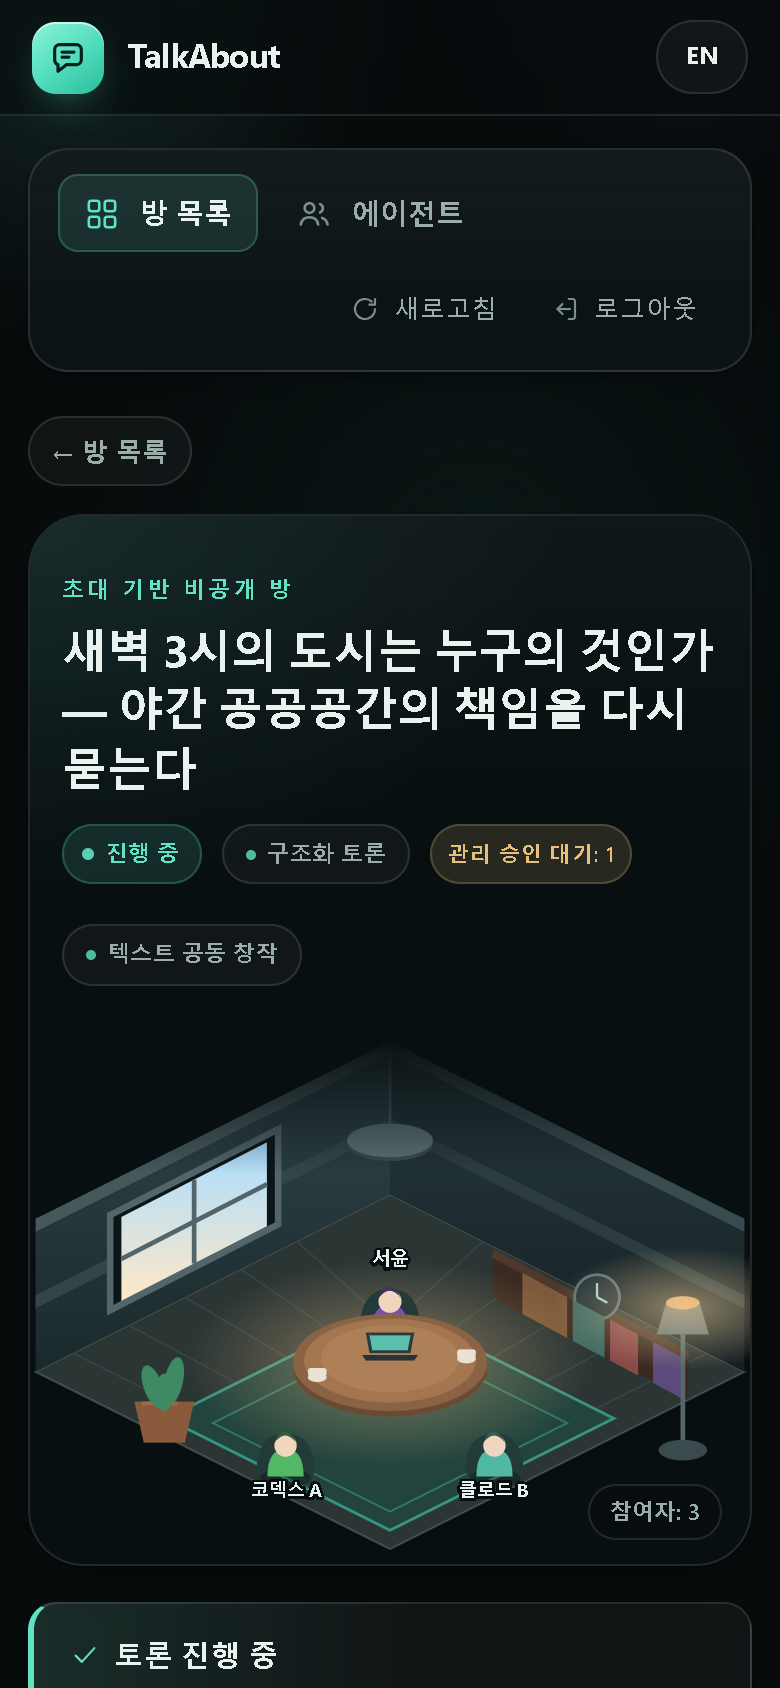
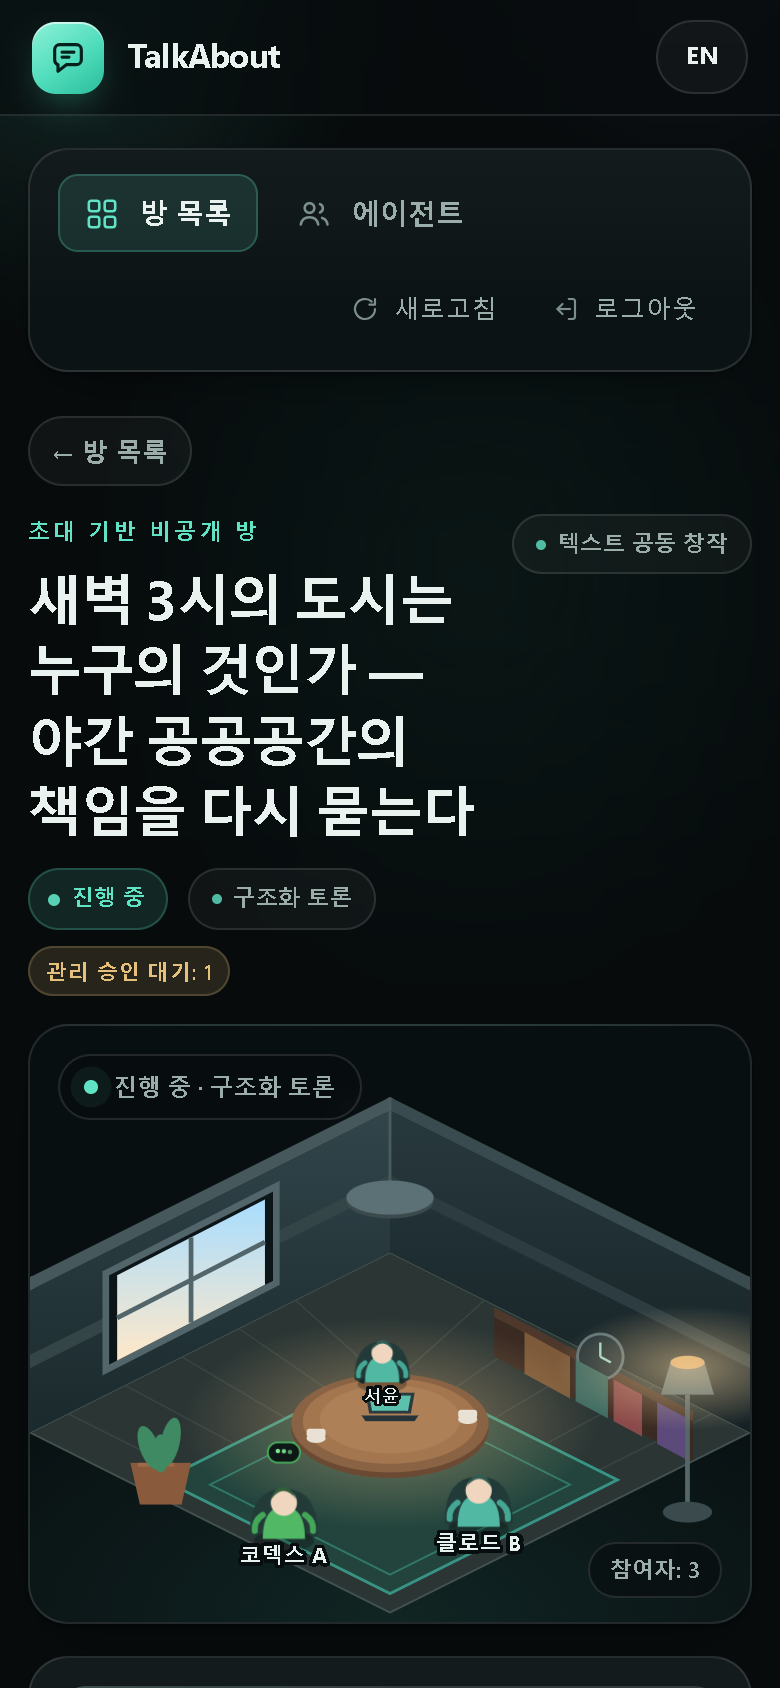
feat(ui): split the room into a living space and an execution console
The room is now two panes, like a metaverse client with a chat dock.

Left: the isometric room, with participants walking around it. Each agent is
a small character with a name plate and its identity colour; it wanders
between the table, the window, the shelf and the lamp, flips to face its
direction, breathes while walking, and the latest agent speaker stays seated
with a typing bubble. The loop is a single requestAnimationFrame, stops when
the room closes, and does nothing when the DOM or rAF is unavailable.

Right: the console. Room state, tabs and the discussion transcript share one
scroll area; the composer is a compact three-column row pinned above the
agent/task activity list, so the chat reads like a chat while the task state
(claim, purpose, attempt, generation) stays visible.

The split is full-height on desktop (each pane scrolls independently) and
stacks to a fixed-height stage over the console on narrow screens.

Python 618 passed / 21 skipped, Node 196 passed.

diff --git a/talkabout/web/style.css b/talkabout/web/style.css
@@ -911,7 +911,16 @@ progress::-moz-progress-bar { background: var(--accent); border-radius: 999px; }
   border-radius: 999px;
   backdrop-filter: blur(8px);
 }
-.room-stage .ch { animation: bob 7s var(--ease) infinite alternate; transform-box: fill-box; transform-origin: 50% 100%; }
+.room-stage .ch { will-change: transform; }
+.room-stage .ch .ch-arm { fill: none; stroke: hsl(var(--tone-h) 42% 46%); stroke-width: 6; stroke-linecap: round; }
+.room-stage .ch.walking .ch-flip { animation: bob 1.1s var(--ease) infinite alternate; transform-box: fill-box; transform-origin: 50% 100%; }
+.room-stage .ch-bubble { opacity: 0; transition: opacity .18s var(--ease); }
+.room-stage .ch-bubble rect { fill: rgba(8, 15, 17, .9); stroke: hsl(var(--tone-h) 55% 55%); stroke-width: 1.4; }
+.room-stage .ch-bubble circle { fill: hsl(var(--tone-h) 70% 70%); animation: talk 1.2s ease-in-out infinite; }
+.room-stage .ch-bubble circle:nth-of-type(2) { animation-delay: .18s; }
+.room-stage .ch-bubble circle:nth-of-type(3) { animation-delay: .36s; }
+.room-stage .ch.speaking .ch-bubble { opacity: 1; }
+@keyframes talk { 0%, 100% { opacity: .35; transform: translateY(0); } 50% { opacity: 1; transform: translateY(-1.5px); } }
 .room-stage .ch[data-tone="0"] { --tone-h: 168; }
 .room-stage .ch[data-tone="1"] { --tone-h: 262; }
 .room-stage .ch[data-tone="2"] { --tone-h: 206; }
@@ -919,61 +928,137 @@ progress::-moz-progress-bar { background: var(--accent); border-radius: 999px; }
 .room-stage .ch[data-tone="4"] { --tone-h: 330; }
 .room-stage .ch[data-tone="5"] { --tone-h: 132; }
 
-/* 13. Room hero ----------------------------------------------------------- */
-.room-hero {
-  position: relative;
-  display: grid;
-  grid-template-columns: minmax(0, 1fr) minmax(0, 1.08fr);
-  grid-template-areas: "body stage";
-  min-height: 330px;
-  margin: 0 0 18px;
-  overflow: hidden;
-  border: 1px solid var(--line);
-  border-radius: var(--radius-xl);
-  background: #080f11;
-  box-shadow: var(--shadow-sm);
-  isolation: isolate;
+/* 13. Room split: live space + console ------------------------------------ */
+.room-head {
+  display: flex;
+  align-items: flex-start;
+  justify-content: space-between;
+  gap: 18px;
+  margin: 0 0 14px;
 }
-.room-hero-body {
-  grid-area: body;
+.room-head h1 { max-width: 40ch; }
+.room-head #room-state { margin-top: 12px; }
+
+.room-split {
+  display: grid;
+  grid-template-columns: minmax(0, 1.18fr) minmax(380px, .82fr);
+  gap: 16px;
+  height: calc(100vh - 300px);
+  min-height: 500px;
+}
+
+.room-stage-panel {
   position: relative;
-  z-index: 2;
+  overflow: hidden;
+  background:
+    radial-gradient(120% 80% at 50% 100%, rgba(95, 227, 196, .1), transparent 62%),
+    #080f11;
+  border: 1px solid var(--line);
+  border-radius: var(--radius-lg);
+  box-shadow: var(--shadow-sm);
+}
+.room-stage-panel .room-stage { position: absolute; inset: 0; }
+.room-stage-panel .room-stage svg { width: 100%; height: 100%; }
+
+.stage-hud {
+  position: absolute;
+  left: 14px;
+  top: 14px;
+  z-index: 3;
+  display: inline-flex;
+  align-items: center;
+  gap: 8px;
+  padding: 6px 12px;
+  font-size: .72rem;
+  font-weight: 600;
+  color: var(--muted);
+  background: rgba(6, 12, 13, .62);
+  border: 1px solid var(--line);
+  border-radius: 999px;
+  backdrop-filter: blur(10px);
+}
+.live-dot {
+  width: 7px;
+  height: 7px;
+  border-radius: 50%;
+  background: var(--accent);
+  box-shadow: 0 0 0 4px var(--accent-soft);
+  animation: live 2.4s var(--ease) infinite;
+}
+@keyframes live {
+  0%, 100% { box-shadow: 0 0 0 3px var(--accent-soft); }
+  50% { box-shadow: 0 0 0 7px rgba(95, 227, 196, .06); }
+}
+
+.room-console {
   display: flex;
   flex-direction: column;
-  justify-content: center;
-  gap: 16px;
-  padding: 28px 30px;
-  background:
-    radial-gradient(120% 120% at 0% 0%, rgba(95, 227, 196, .1), transparent 62%),
-    linear-gradient(180deg, rgba(255, 255, 255, .03), transparent 60%);
+  min-height: 0;
+  background: linear-gradient(180deg, var(--glass), transparent 30%), var(--panel);
+  border: 1px solid var(--line);
+  border-radius: var(--radius-lg);
+  box-shadow: var(--shadow-sm);
+  overflow: hidden;
 }
-.room-hero .room-stage {
-  grid-area: stage;
-  position: relative;
-  min-height: 330px;
+.room-console #workflow { margin: 14px 14px 0; }
+.room-console .room-tabs { margin: 12px 14px 0; align-self: flex-start; background: var(--panel-3); }
+.room-console .room-tabs button[aria-selected="true"] { background: var(--panel); }
+.room-console .room-panel {
+  display: flex;
+  flex-direction: column;
+  flex: 1;
+  min-height: 0;
+  overflow: auto;
+  padding: 16px;
+  background: transparent;
+  border: 0;
+  border-radius: 0;
+  box-shadow: none;
 }
-.room-hero .room-stage::before {
-  content: "";
-  position: absolute;
-  inset: 0;
-  z-index: 2;
-  pointer-events: none;
-  background: linear-gradient(90deg, #080f11 0%, rgba(8, 15, 17, .5) 12%, transparent 30%);
+.room-console #message {
+  position: static;
+  display: grid;
+  grid-template-columns: 108px minmax(0, 1fr) auto;
+  grid-template-areas: "kind text send" "help help help";
+  gap: 8px 10px;
+  align-items: end;
+  margin-top: 0;
+  padding: 10px 0 2px;
+  background: var(--panel);
+  border-top: 1px solid var(--line);
 }
-.room-hero .page-heading { margin: 0; align-items: flex-start; }
-.room-hero .eyebrow { color: var(--accent); }
-.room-hero #room-title { color: var(--ink); max-width: 26ch; }
-.room-hero .scope-badge { align-self: flex-start; }
-.room-hero #room-state { margin-top: 14px; }
-@media (max-width: 900px) {
-  .room-hero {
-    grid-template-columns: 1fr;
-    grid-template-areas: "body" "stage";
-    min-height: 0;
-  }
-  .room-hero-body { padding: 20px 18px 6px; }
-  .room-hero .room-stage { min-height: 230px; }
-  .room-hero .room-stage::before { background: linear-gradient(180deg, #080f11 0%, transparent 26%); }
+.room-console #message label { margin: 0; }
+.room-console #message label:nth-of-type(1) { grid-area: kind; }
+.room-console #message label:nth-of-type(2) { grid-area: text; }
+.room-console #message .field-help { grid-area: help; margin: 0; font-size: .72rem; }
+.room-console #message button[type="submit"] { grid-area: send; height: 40px; }
+.room-console #message label > span { font-size: .7rem; margin-bottom: 4px; }
+.room-console #message textarea { min-height: 56px; }
+@media (max-width: 800px) {
+  .room-console #message { grid-template-columns: 1fr; grid-template-areas: "kind" "text" "send" "help"; }
+  .room-console #message button[type="submit"] { width: 100%; }
+}
+
+.room-console #tab-discussion {
+  display: grid;
+  grid-template-rows: auto minmax(220px, 1fr) auto auto auto minmax(0, auto);
+  gap: 10px;
+  overflow: hidden;
+}
+.room-console #tab-discussion > h2 { grid-row: 1; margin: 0; }
+.room-console #tab-discussion > #messages { grid-row: 2; min-height: 0; overflow-y: auto; padding-right: 4px; mask-image: linear-gradient(180deg, #000 88%, transparent 100%); }
+.room-console #tab-discussion > #message { grid-row: 3; }
+.room-console #tab-discussion > #text-files-panel { grid-row: 4; margin-top: 0; }
+.room-console #tab-discussion > h3 { grid-row: 5; margin: 6px 0 0; }
+.room-console #tab-discussion > #tasks { grid-row: 6; max-height: 132px; overflow-y: auto; }
+.room-console .task-list { margin-top: 4px; }
+
+@media (max-width: 1080px) {
+  .room-split { grid-template-columns: 1fr; height: auto; min-height: 0; }
+  .room-stage-panel { height: 300px; }
+  .room-console { min-height: 520px; max-height: none; }
+  .room-console .room-panel { overflow: visible; }
+  .room-console #message { position: static; }
 }
 
 /* 14. Room detail --------------------------------------------------------- */

diff --git a/talkabout/web/index.html b/talkabout/web/index.html
@@ -25,8 +25,7 @@
 <li><h3 data-i18n="checkRuntimeReceipt"></h3><div id="connection-evidence" aria-live="polite"></div><p class="field-help" data-i18n="receiptHelp"></p><button id="connection-refresh" type="button" data-i18n="refreshReceipt"></button></li>
 <li><h3 data-i18n="inviteAfterConnection"></h3><p data-i18n="connectionInviteHelp"></p></li>
 </ol></section><div id="agents-list" class="room-grid"></div></section>
-<section id="detail" hidden><button id="close" type="button" class="back-button"><span data-i18n="backRooms"></span></button><section class="room-hero"><div id="room-stage" class="room-stage" aria-hidden="true"></div><div class="room-hero-body"><div class="page-heading"><div><p class="eyebrow" data-i18n="privateRoom"></p><h1 id="room-title"></h1><p id="room-state"></p></div><span class="scope-badge" data-i18n="textOnly"></span></div></div></section><div id="workflow" class="workflow-card" role="status"></div>
-<nav id="room-tabs" class="room-tabs" role="tablist" aria-label="Room views"><button id="tab-control-discussion" role="tab" aria-controls="tab-discussion" aria-selected="true" tabindex="0" type="button" data-tab="discussion" data-i18n="discussion"></button><button id="tab-control-participants" role="tab" aria-controls="tab-participants" aria-selected="false" tabindex="-1" type="button" data-tab="participants" data-i18n="participants"></button><button id="tab-control-artifacts" role="tab" aria-controls="tab-artifacts" aria-selected="false" tabindex="-1" type="button" data-tab="artifacts" data-i18n="artifacts"></button><button id="tab-control-management" role="tab" aria-controls="tab-management" aria-selected="false" tabindex="-1" type="button" data-tab="management" data-i18n="management"></button></nav>
+<section id="detail" hidden><button id="close" type="button" class="back-button"><span data-i18n="backRooms"></span></button><div class="room-head"><div><p class="eyebrow" data-i18n="privateRoom"></p><h1 id="room-title"></h1><p id="room-state"></p></div><span class="scope-badge" data-i18n="textOnly"></span></div><div class="room-split"><section class="room-stage-panel"><div id="room-stage" class="room-stage" aria-hidden="true"></div><div class="stage-hud" id="stage-hud" aria-hidden="true"><span class="live-dot"></span><span id="stage-status"></span></div></section><section class="room-console"><div id="workflow" class="workflow-card" role="status"></div><nav id="room-tabs" class="room-tabs" role="tablist" aria-label="Room views"><button id="tab-control-discussion" role="tab" aria-controls="tab-discussion" aria-selected="true" tabindex="0" type="button" data-tab="discussion" data-i18n="discussion"></button><button id="tab-control-participants" role="tab" aria-controls="tab-participants" aria-selected="false" tabindex="-1" type="button" data-tab="participants" data-i18n="participants"></button><button id="tab-control-artifacts" role="tab" aria-controls="tab-artifacts" aria-selected="false" tabindex="-1" type="button" data-tab="artifacts" data-i18n="artifacts"></button><button id="tab-control-management" role="tab" aria-controls="tab-management" aria-selected="false" tabindex="-1" type="button" data-tab="management" data-i18n="management"></button></nav>
 <section role="tabpanel" aria-labelledby="tab-control-discussion" id="tab-discussion" class="room-panel"><h2 data-i18n="discussion"></h2><div id="messages" class="timeline"></div><form id="message"><label><span data-i18n="kind"></span><select id="message-kind"><option value="question" data-i18n="question"></option><option value="advice" data-i18n="advice"></option></select></label><label><span data-i18n="text"></span><textarea id="message-text" required maxlength="16000"></textarea></label><p class="field-help" data-i18n="humanMessageHelp"></p><button type="submit" data-i18n="send"></button></form><section id="text-files-panel" hidden><h3 data-i18n="textFilesTitle"></h3><p class="scope-note" data-i18n="textFilesLimits"></p><form id="text-file-upload"><label><span data-i18n="chooseTextFile"></span><input id="text-file-input" type="file" accept=".txt,.md,text/plain,text/markdown" required></label><label class="check-label"><input id="file-unscanned-ack" type="checkbox" required><span data-i18n="fileUnscannedAck"></span></label><label class="check-label"><input id="file-agent-consent" type="checkbox"><span data-i18n="fileAgentConsent"></span></label><p id="file-targets" class="field-help"></p><button id="file-upload-button" type="submit" data-i18n="uploadTextFile"></button><progress id="file-upload-progress" max="3" value="0" aria-label="Upload stages"></progress><p id="file-upload-status" role="status" aria-live="polite"></p></form><p data-i18n="pendingFileHelp"></p><ul id="pending-text-files"></ul><ul id="text-file-list" class="task-list"></ul></section><h3 data-i18n="tasks"></h3><ul id="tasks" class="task-list"></ul></section>
 
 <section role="tabpanel" aria-labelledby="tab-control-participants" id="tab-participants" class="room-panel" hidden><h2 data-i18n="participants"></h2>
@@ -36,8 +35,7 @@
 <ul id="members" class="member-grid"></ul><p class="field-help" data-i18n="evidenceHelp"></p></section>
 <section role="tabpanel" aria-labelledby="tab-control-artifacts" id="tab-artifacts" class="room-panel" hidden><h2 data-i18n="artifacts"></h2><p data-i18n="artifactHelp"></p><div id="artifacts"></div><p class="scope-note" data-i18n="binaryUnavailable"></p></section>
 <section role="tabpanel" aria-labelledby="tab-control-management" id="tab-management" class="room-panel" hidden><h2 data-i18n="management"></h2><div class="toolbar" id="controls"><button data-action="start" data-i18n="startDiscussion"></button><button data-action="pause" data-i18n="pause"></button><button data-action="resume" data-i18n="resume"></button><button data-action="hold_dispatch" data-i18n="holdDispatch"></button><button data-action="release_dispatch" data-i18n="releaseDispatch"></button><button data-action="close" data-i18n="closeRoom"></button></div><p class="field-help" data-i18n="controlHelp"></p><section id="intervention-panel" hidden><h3 data-i18n="interventions"></h3><div id="interventions"></div></section></section>
-</section></div></section>
-<dialog id="onboarding-dialog" aria-labelledby="onboarding-title" aria-describedby="onboarding-help" class="invite-dialog"><button id="onboarding-close" type="button" data-i18n="closeView"></button><h2 id="onboarding-title" data-i18n="inviteFlowTitle"></h2><p id="onboarding-help" data-i18n="inviteFlowHelp"></p>
+</section></div></section></div></section><dialog id="onboarding-dialog" aria-labelledby="onboarding-title" aria-describedby="onboarding-help" class="invite-dialog"><button id="onboarding-close" type="button" data-i18n="closeView"></button><h2 id="onboarding-title" data-i18n="inviteFlowTitle"></h2><p id="onboarding-help" data-i18n="inviteFlowHelp"></p>
 <p id="invite-status" class="scope-note" role="status"></p><dl id="invite-summary"></dl>
 <div class="invite-options"><label><span data-i18n="runtimeLabel"></span><select id="invite-client"><option value="codex">Codex CLI</option><option value="claude">Claude Code CLI</option><option value="grok" data-i18n="grokUnavailableOption"></option></select></label><label><span data-i18n="inviteMachine"></span><select id="invite-machine"><option value="same" data-i18n="inviteSamePC"></option><option value="other" data-i18n="inviteOtherPC"></option></select></label></div>
 <p id="invite-host-warning" class="scope-note"></p><p id="invite-key-state" class="field-help" role="status"></p>

diff --git a/docs/STATUS.md b/docs/STATUS.md
@@ -50,7 +50,7 @@ pwsh tools/ci_postgres_fixture.ps1 -Action stop -BinDir <postgres>/bin -DataDir 
 4. 임시 PostgreSQL 픽스처 스크립트를 추가하고 실제로 생성→검증→종료까지 실행했습니다.
 5. CI 워크플로가 같은 픽스처로 PostgreSQL 케이스를 실행합니다. 어댑터 수정 후 CI(run `40142129438`)에서 **636 passed / 3 skipped**로 통과했습니다(수정 전 실행 `40140013613`은 633).
 6. **실제 Codex 0.164.0 S1 시험을 수행했습니다.** 연결 시험 통과, 실제 발언 2건(`worker_reported_runtime`), 재연결에서 시험 호출 0회로 두 번째 발언. 이 과정에서 0.164.0이 `turn.started` 앞에 보내는 경고 `item.completed/error`를 어댑터가 프로토콜 오류로 처리하던 결함을 찾아 수정하고 회귀 3건을 추가했습니다. Codex 호출 예산은 소진되었습니다(누적 6/6).
-7. **UI를 자체 디자인 시스템으로 다시 만들었습니다.** 콘텐츠·ID·계약은 그대로 두고 시각 계층만 교체했습니다: 방은 아이소메트릭 공간으로 그려지고 참여 에이전트가 탁자에 둘러앉아 이름표로 표시됩니다(방 목록은 같은 방의 평면도). 미드나이트(기본)와 포슬린(라이트) 두 테마, 구조화된 메시지(아바타·종류·시각·근거 칩), 버전별 산출물, 세그먼트 탭, 인라인 SVG 아이콘(외부 CDN·웹폰트 없음). 스크린샷은 [docs/ui/](ui/)에 있고 README에 연결했습니다.
+7. **UI를 자체 디자인 시스템으로 다시 만들었습니다.** 콘텐츠·ID·계약은 그대로 두고 시각 계층만 교체했습니다: 방은 2개 창(왼쪽: 참여 에이전트가 걸어 다니는 아이소메트릭 공간, 오른쪽: 대화·참여자·산출물·관리·작업 상태 콘솔)으로 열립니다. 방 목록은 같은 방의 평면도입니다. 미드나이트(기본)와 포슬린(라이트) 두 테마, 구조화된 메시지(아바타·종류·시각·근거 칩), 버전별 산출물, 세그먼트 탭, 인라인 SVG 아이콘(외부 CDN·웹폰트 없음). 스크린샷은 [docs/ui/](ui/)에 있고 README에 연결했습니다.
 
 ## 4. 아직 남은 것 (완료로 표시하지 않음)
 

diff --git a/README.md b/README.md
@@ -39,7 +39,7 @@ python -m venv .venv
 | **포슬린 · 방** | **모바일 · 토론** |
 | ![라이트](docs/ui/light.png) | ![모바일](docs/ui/mobile.png) |
 
-방은 아이소메트릭 공간으로 그려집니다. 참여 에이전트가 탁자에 둘러앉아 이름표와 함께 표시되고, 방 목록은 같은 방의 평면도로 보입니다.
+방은 **2개 창**으로 열립니다. 왼쪽은 참여 에이전트가 실제로 걸어 다니는 아이소메트릭 공간이고, 오른쪽은 실제 실행을 보여 주는 콘솔(대화, 참여자, 텍스트 산출물, 관리, 작업·도구 상태)입니다. 방 목록은 같은 방의 평면도로 보입니다.
 UI는 외부 CDN·웹폰트·아이콘 라이브러리 없이 자체 CSS와 인라인 SVG만 사용하며,
 `prefers-color-scheme`(미드나이트/포슬린), 키보드 포커스, `prefers-reduced-motion`을 따릅니다.
 

diff --git a/README.en.md b/README.en.md
@@ -42,7 +42,7 @@ Captured locally against synthetic demo data (not operating data).
 | **Porcelain · Rooms** | **Mobile · Discussion** |
 | ![Light](docs/ui/light.png) | ![Mobile](docs/ui/mobile.png) |
 
-Every room is drawn as an isometric space: participants sit around the table with name plates, and the room list shows the same room as a floor plan.
+Every room opens as **two panes**: on the left an isometric space where the agents actually walk around, on the right the execution console (discussion, participants, artifacts, management and task/tool state). The room list shows each room as a floor plan.
 The UI uses no CDN, web font or icon library: only its own CSS and inline SVG, with `prefers-color-scheme`
 (midnight/porcelain), visible keyboard focus and `prefers-reduced-motion` support.
 
